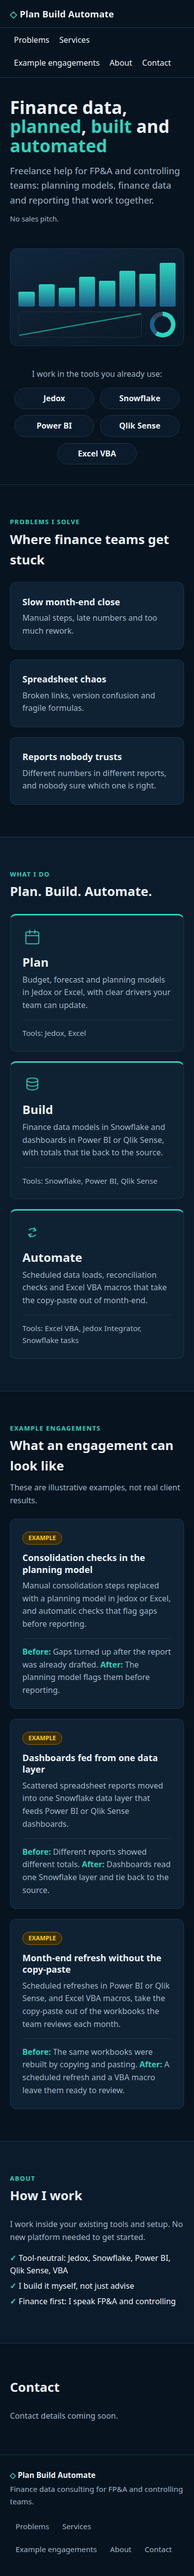
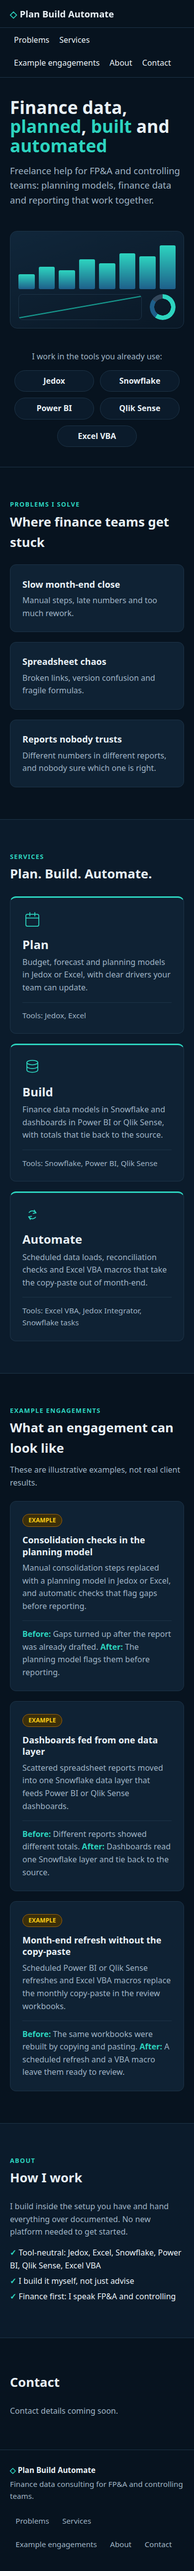
Align a few labels and About and example lines.
Match the services label to the nav, name Excel and Excel VBA in About, and drop the hero line that sat under a removed button.

diff --git a/docs/index.html b/docs/index.html
@@ -40,7 +40,6 @@
     <div>
       <h1>Finance data, <span class="accent">planned</span>, <span class="accent">built</span> and <span class="accent">automated</span></h1>
       <p class="lead">Freelance help for FP&amp;A and controlling teams: planning models, finance data and reporting that work together.</p>
-      <p class="small">No sales pitch.</p>
     </div>
     <div class="panel" aria-hidden="true">
       <div class="bars"><span style="--h:30%"></span><span style="--h:45%"></span><span style="--h:38%"></span><span style="--h:60%"></span><span style="--h:52%"></span><span style="--h:72%"></span><span style="--h:66%"></span><span style="--h:88%"></span></div>
@@ -73,7 +72,7 @@
 
 <section id="services" class="section alt">
   <div class="wrap">
-    <p class="eyebrow">What I do</p>
+    <p class="eyebrow">Services</p>
     <h2>Plan. Build. Automate.</h2>
     <div class="cards three">
       <article class="card pillar">
@@ -131,7 +130,7 @@
       <article class="card">
         <span class="tag">Example</span>
         <h3>Month-end refresh without the copy-paste</h3>
-        <p>Scheduled refreshes in Power BI or Qlik Sense, and Excel VBA macros, take the copy-paste out of the workbooks the team reviews each month.</p>
+        <p>Scheduled Power BI or Qlik Sense refreshes and Excel VBA macros replace the monthly copy-paste in the review workbooks.</p>
         <p class="shift"><strong>Before:</strong> The same workbooks were rebuilt by copying and pasting. <strong>After:</strong> A scheduled refresh and a VBA macro leave them ready to review.</p>
       </article>
     </div>
@@ -142,9 +141,9 @@
   <div class="wrap">
     <p class="eyebrow">About</p>
     <h2>How I work</h2>
-    <p class="about-lead">I work inside your existing tools and setup. No new platform needed to get started.</p>
+    <p class="about-lead">I build inside the setup you have and hand everything over documented. No new platform needed to get started.</p>
     <ul class="checks">
-      <li>Tool-neutral: Jedox, Snowflake, Power BI, Qlik Sense, VBA</li>
+      <li>Tool-neutral: Jedox, Excel, Snowflake, Power BI, Qlik Sense, Excel VBA</li>
       <li>I build it myself, not just advise</li>
       <li>Finance first: I speak FP&amp;A and controlling</li>
     </ul>

diff --git a/docs/styles.css b/docs/styles.css
@@ -22,8 +22,7 @@ a:focus-visible{outline:3px solid var(--teal2);outline-offset:3px}
 .hero-grid{display:grid;grid-template-columns:1.1fr 1fr;gap:3rem;align-items:center}
 h1{font-size:clamp(2.2rem,5vw,3.6rem);line-height:1.1;margin:0 0 1rem}
 .accent{color:var(--teal2)}
-.lead{color:var(--muted);font-size:1.15rem;margin:0 0 .75rem}
-.small{color:var(--muted);font-size:.9rem;margin:0}
+.lead{color:var(--muted);font-size:1.15rem;margin:0}
 .panel{background:linear-gradient(160deg,#10263a,#0a1826);border:1px solid var(--line);border-radius:14px;padding:1.5rem;min-height:300px}
 .bars{display:flex;align-items:flex-end;gap:10px;height:160px}
 .bars span{flex:1;height:var(--h);background:linear-gradient(#2dd4bf,#1e5f8a);border-radius:3px}
